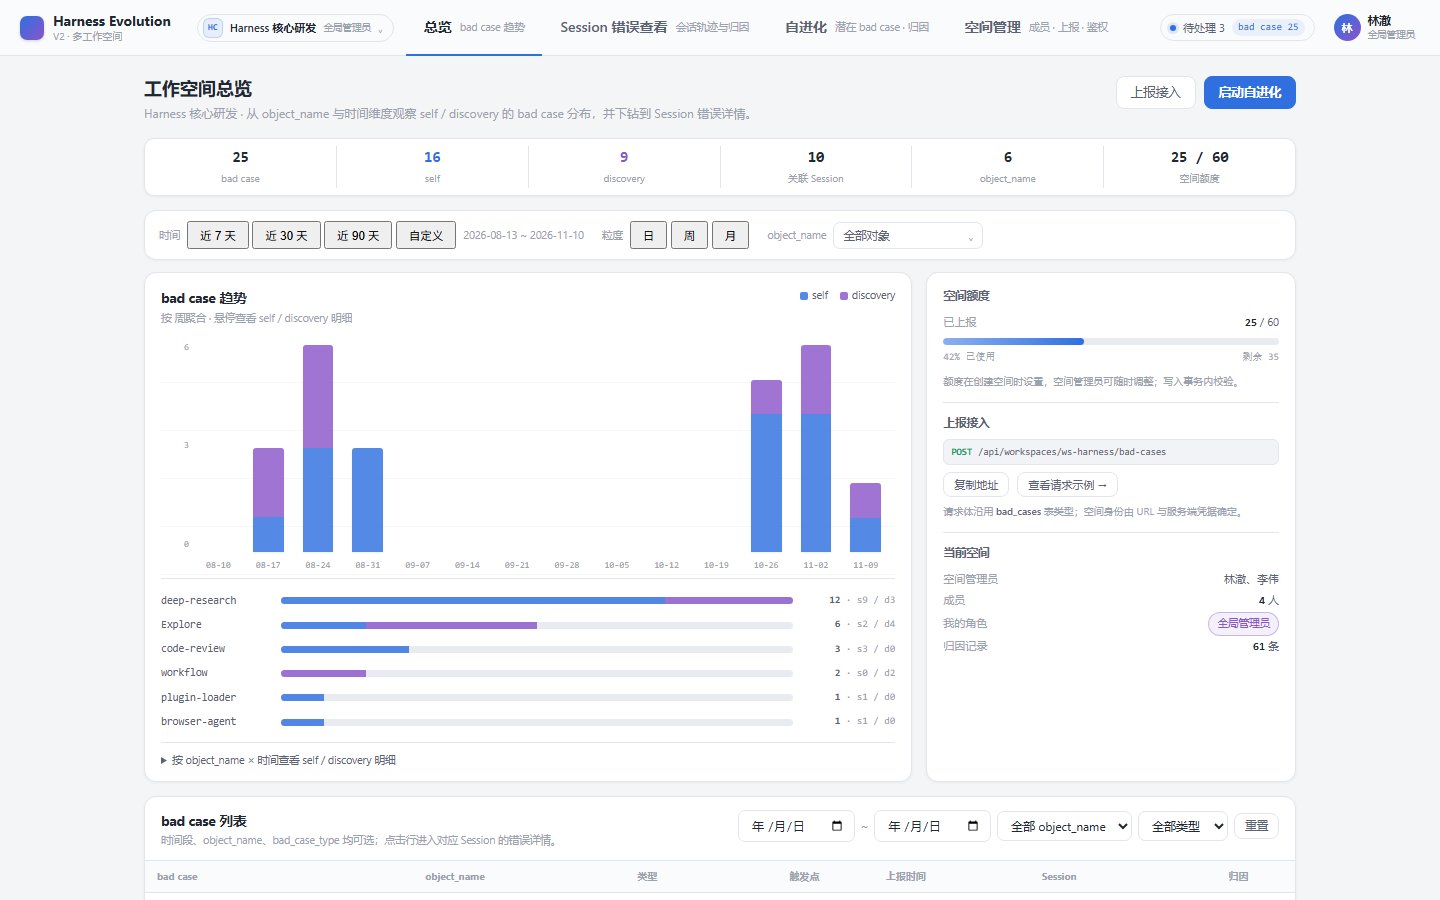
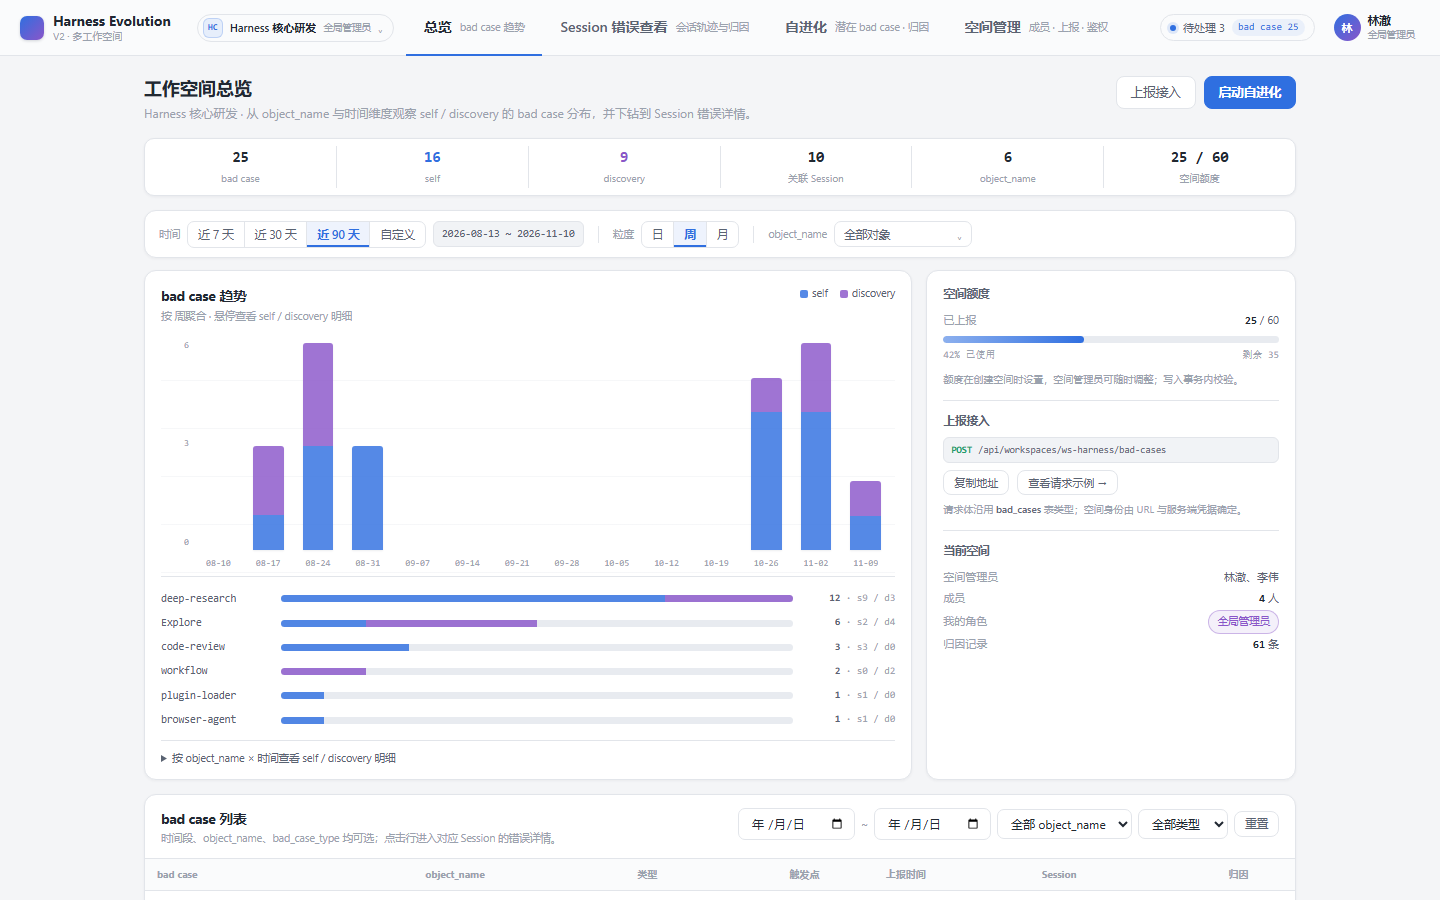
style(prototype): polish overview filter bar

diff --git a/plans/ui-prototype-v2/harness-evolution.html b/plans/ui-prototype-v2/harness-evolution.html
@@ -760,13 +760,21 @@
   .v2-toolbar .spacer { flex: 1; }
 
   /* ═════════════════════════ 工作空间总览 ═════════════════════════ */
-  .ov-filterbar { display: flex; align-items: center; gap: 10px 18px; flex-wrap: wrap; padding: 10px 14px; margin-bottom: 12px; }
-  .ov-filter-group { display: flex; align-items: center; gap: 7px; }
+  .v2-page .seg { display: inline-flex; border: 1px solid var(--border); border-radius: 7px; overflow: hidden; background: var(--bg-card); }
+  .v2-page .seg button { font: inherit; font-size: 11.5px; color: var(--text-dim); background: transparent; border: 0; border-left: 1px solid var(--border); padding: 5px 11px; cursor: pointer; transition: background .12s, color .12s; }
+  .v2-page .seg button:first-child { border-left: 0; }
+  .v2-page .seg button:hover { color: var(--text); background: var(--bg-panel); }
+  .v2-page .seg button.active { color: var(--blue); background: color-mix(in srgb, var(--blue) 8%, var(--bg-card)); font-weight: 600; box-shadow: inset 0 -2px 0 var(--blue); }
+  .ov-filterbar { display: flex; align-items: center; gap: 8px 12px; flex-wrap: wrap; padding: 9px 14px; margin-bottom: 12px; background: var(--bg-card); }
+  .ov-filter-group { display: flex; align-items: center; gap: 7px; min-height: 28px; }
   .ov-filter-label { font-size: 10.5px; color: var(--text-faint); white-space: nowrap; }
-  .ov-filterbar .inp { padding: 4px 8px; font-size: 11.5px; }
-  .ov-filterbar .seg button { padding: 4px 11px; font-size: 11.5px; }
+  .ov-filter-sep { width: 1px; height: 17px; background: var(--border); margin: 0 2px; flex: 0 0 auto; }
+  .ov-filter-spacer { flex: 1; min-width: 4px; }
+  .ov-range { display: inline-flex; align-items: center; height: 26px; padding: 0 8px; border: 1px solid var(--border); border-radius: 6px; background: var(--bg-inset); color: var(--text-dim); font-family: var(--mono); font-size: 10.5px; white-space: nowrap; }
+  .ov-filterbar .inp { height: 26px; padding: 0 7px; font-size: 11px; }
+  .ov-filterbar .seg button { padding: 4px 10px; font-size: 11.5px; }
   .ov-multi { position: relative; }
-  .ov-multi summary { list-style: none; display: flex; align-items: center; gap: 7px; min-width: 150px; padding: 4px 9px; border: 1px solid var(--border); border-radius: 7px; background: var(--bg-card); font-size: 11.5px; color: var(--text-dim); cursor: pointer; }
+  .ov-multi summary { list-style: none; display: flex; align-items: center; gap: 7px; min-width: 138px; height: 26px; padding: 0 9px; border: 1px solid var(--border); border-radius: 7px; background: var(--bg-card); font-size: 11.5px; color: var(--text-dim); cursor: pointer; transition: border-color .12s, color .12s, box-shadow .12s; }
   .ov-multi summary::-webkit-details-marker { display: none; }
   .ov-multi summary:hover, .ov-multi[open] summary { border-color: var(--blue); color: var(--text); }
   .ov-multi summary .caret { margin-left: auto; font-size: 9px; color: var(--text-faint); }
@@ -798,6 +806,9 @@
   .ov-bar.discovery { background: var(--purple); opacity: .82; }
   .ov-bucket:hover .ov-bar.self { opacity: 1; }
   .ov-bucket:hover .ov-bar.discovery { opacity: 1; }
+  .ov-chart.dense { gap: 2px; }
+  .ov-chart.dense .ov-bucket { min-width: 0; }
+  .ov-chart.dense .ov-stack { width: 100%; max-width: 16px; }
   .ov-bucket .ov-lbl { position: absolute; bottom: -21px; left: 50%; transform: translateX(-50%); font-family: var(--mono); font-size: 9px; color: var(--text-faint); white-space: nowrap; }
   .ov-bucket .ov-tip { display: none; position: absolute; bottom: calc(100% + 6px); left: 50%; transform: translateX(-50%); z-index: 5; background: var(--text); color: #fff; border-radius: 5px; padding: 4px 7px; font-size: 10px; line-height: 1.5; white-space: nowrap; box-shadow: 0 4px 12px rgba(20,30,50,.2); }
   .ov-bucket:hover .ov-tip { display: block; }
@@ -4374,16 +4385,18 @@ function v2RenderOverview() {
   const rows = list.arr.slice((list.page - 1) * list.pageSize, list.page * list.pageSize);
   const selObjects = [...o.objects];
   const yLabel = n => `<span>${n}</span>`;
-  const chart = buckets.map(b => {
+  const labelStep = Math.max(1, Math.ceil(buckets.length / 14));
+  const chart = buckets.map((b, bi) => {
     const t = b.self + b.discovery;
     const h = t ? Math.max(3, Math.round(t / max * 100)) : 0;
+    const showLabel = bi % labelStep === 0 || bi === buckets.length - 1;
     return `<div class="ov-bucket" title="${b.label} · self ${b.self} · discovery ${b.discovery}">
       <span class="ov-tip">${b.label} · self ${b.self} · discovery ${b.discovery}</span>
       ${t ? `<div class="ov-stack" style="height:${h}%">
         <span class="ov-bar self" style="height:${(b.self / t * 100).toFixed(1)}%"></span>
         <span class="ov-bar discovery" style="height:${(b.discovery / t * 100).toFixed(1)}%"></span>
       </div>` : ''}
-      <span class="ov-lbl">${b.label}</span>
+      <span class="ov-lbl">${showLabel ? b.label : ''}</span>
     </div>`;
   }).join('');
   const listRows = rows.map(c => {
@@ -4424,8 +4437,11 @@ function v2RenderOverview() {
         <button class="${o.range === 90 ? 'active' : ''}" data-v2-ov-range="90">近 90 天</button>
         <button class="${o.range === 0 ? 'active' : ''}" data-v2-ov-range="0">自定义</button>
       </div>
-      ${o.range === 0 ? `<input class="inp" type="date" value="${o.from}" data-v2-ov-from><span class="ov-filter-label">~</span><input class="inp" type="date" value="${o.to}" data-v2-ov-to>` : `<span class="ov-filter-label">${from} ~ ${to}</span>`}
+      ${o.range === 0
+        ? `<div class="ov-filter-group" style="gap:5px"><input class="inp" type="date" value="${o.from}" data-v2-ov-from><span class="ov-filter-label">~</span><input class="inp" type="date" value="${o.to}" data-v2-ov-to></div>`
+        : `<span class="ov-range">${from} ~ ${to}</span>`}
     </div>
+    <span class="ov-filter-sep"></span>
     <div class="ov-filter-group"><span class="ov-filter-label">粒度</span>
       <div class="seg">
         <button class="${o.grain === 'day' ? 'active' : ''}" data-v2-ov-grain="day">日</button>
@@ -4433,6 +4449,7 @@ function v2RenderOverview() {
         <button class="${o.grain === 'month' ? 'active' : ''}" data-v2-ov-grain="month">月</button>
       </div>
     </div>
+    <span class="ov-filter-sep"></span>
     <div class="ov-filter-group"><span class="ov-filter-label">object_name</span>
       <details class="ov-multi" ${o.multiOpen ? 'open' : ''}>
         <summary>${o.objects.size ? `已选 ${o.objects.size} 个对象` : '全部对象'}<span class="caret">⌄</span></summary>
@@ -4442,7 +4459,7 @@ function v2RenderOverview() {
         </div>
       </details>
     </div>
-    ${selObjects.length ? `<div class="ov-selected">${selObjects.map(x => `<span class="ov-chip">${v2Esc(x)}<button data-v2-ov-remove="${x}">×</button></span>`).join('')}</div>` : ''}
+    ${selObjects.length ? `<span class="ov-filter-spacer"></span><div class="ov-selected">${selObjects.map(x => `<span class="ov-chip">${v2Esc(x)}<button data-v2-ov-remove="${x}" title="移除 ${v2Esc(x)}">×</button></span>`).join('')}</div>` : ''}
   </div>
   <div class="ov-grid">
     <div class="card ov-chart-card">
@@ -4451,7 +4468,7 @@ function v2RenderOverview() {
         <span class="spacer"></span>
         <div class="ov-legend"><span><i class="self"></i>self</span><span><i class="discovery"></i>discovery</span></div>
       </div>
-      ${buckets.length && total ? `<div class="ov-chart"><div class="ov-yaxis">${yLabel(max)}${yLabel(Math.round(max / 2))}${yLabel(0)}</div>${chart}</div>` : '<div class="ov-empty"><b>当前条件下没有 bad case</b>调整时间范围或 object_name 后重试。</div>'}
+      ${buckets.length && total ? `<div class="ov-chart ${buckets.length > 26 ? 'dense' : ''}"><div class="ov-yaxis">${yLabel(max)}${yLabel(Math.round(max / 2))}${yLabel(0)}</div>${chart}</div>` : '<div class="ov-empty"><b>当前条件下没有 bad case</b>调整时间范围或 object_name 后重试。</div>'}
       <div class="ov-objects">
         ${objRows.length ? (() => { const maxObj = Math.max(1, ...objRows.map(x => x.total)); return objRows.slice(0, 6).map(x => `<div class="ov-obj-row">
           <span class="ov-obj-name" title="${x.name}">${v2Esc(x.name)}</span>
@@ -4847,6 +4864,8 @@ function v2Boot() {
     const demoPage = (q.get('demo') === 'workspace' || q.get('demo') === 'member') ? 'admin' : 'evo';
     const page = q.get('page') || (q.get('demo') ? demoPage : 'overview');
     V2.page = ['overview', 'session', 'evo', 'admin'].includes(page) ? page : 'overview';
+    if (q.has('range')) V2.overview.range = Number(q.get('range'));
+    if (q.has('grain')) V2.overview.grain = q.get('grain');
     window.V2_READY = true;
     v2LoginAs(userParam, { keepPage: true, silent: true, auto: true });
     v2SetPage(V2.page);
